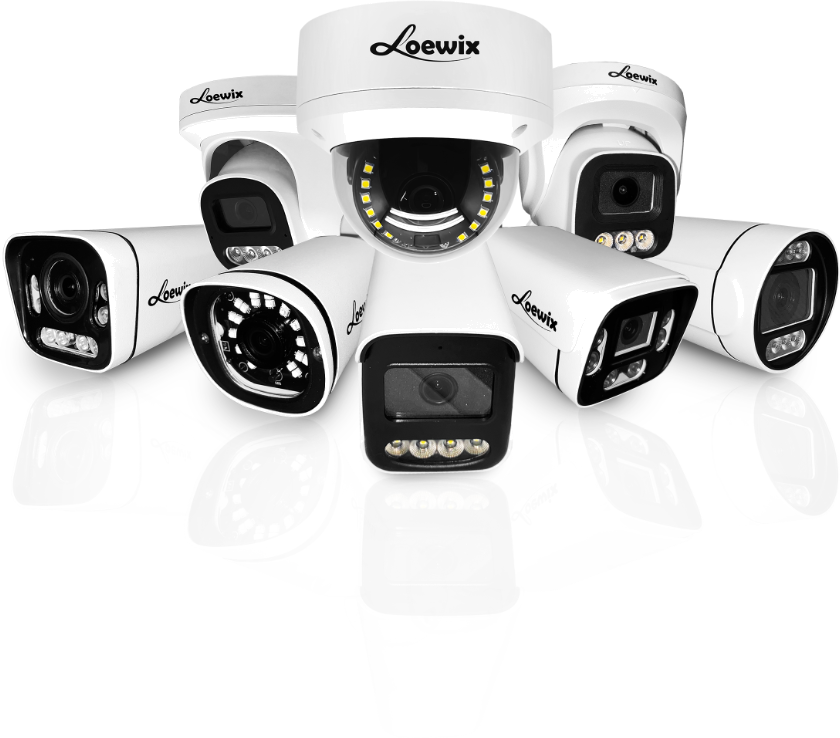
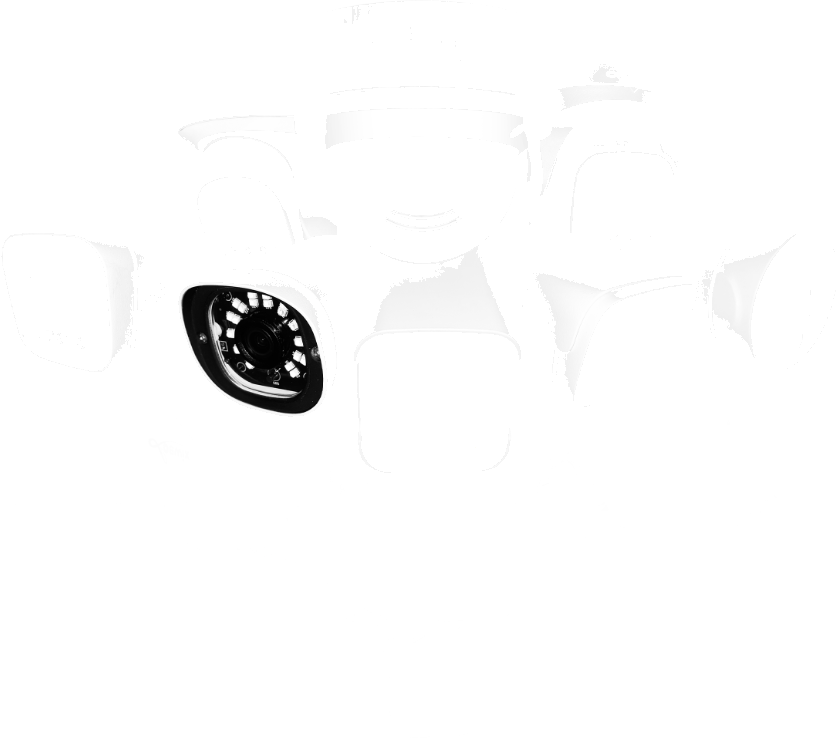
Fix camera body white pixel preservation using corner floodfill mask algorithm

Changed region(s): [[0.0, 0.0, 1.0, 0.6545], [0.4344, 0.0312, 0.5895, 0.1558]]

diff --git a/index.html b/index.html
@@ -3271,7 +3271,7 @@
                 <div class="banner-right-con wow slideInRight" style="position: relative; display: flex; justify-content: center; align-items: center;">
                   <figure class="mb-0" style="position: relative; display: inline-block; max-width: 100%;">
                     <img
-                      src="assets/image/loewix_hero_cctv_camera.png?v=7"
+                      src="assets/image/loewix_hero_cctv_camera.png?v=8"
                       alt="Loewix Official Security Cameras"
                       class="img-fluid"
                       style="max-width: 95%; max-height: 420px; width: auto; height: auto; filter: drop-shadow(0 20px 40px rgba(0, 102, 255, 0.25)); transition: all 0.5s ease;"

diff --git a/index.php b/index.php
@@ -3271,7 +3271,7 @@
                 <div class="banner-right-con wow slideInRight" style="position: relative; display: flex; justify-content: center; align-items: center;">
                   <figure class="mb-0" style="position: relative; display: inline-block; max-width: 100%;">
                     <img
-                      src="assets/image/loewix_hero_cctv_camera.png?v=7"
+                      src="assets/image/loewix_hero_cctv_camera.png?v=8"
                       alt="Loewix Official Security Cameras"
                       class="img-fluid"
                       style="max-width: 95%; max-height: 420px; width: auto; height: auto; filter: drop-shadow(0 20px 40px rgba(0, 102, 255, 0.25)); transition: all 0.5s ease;"
